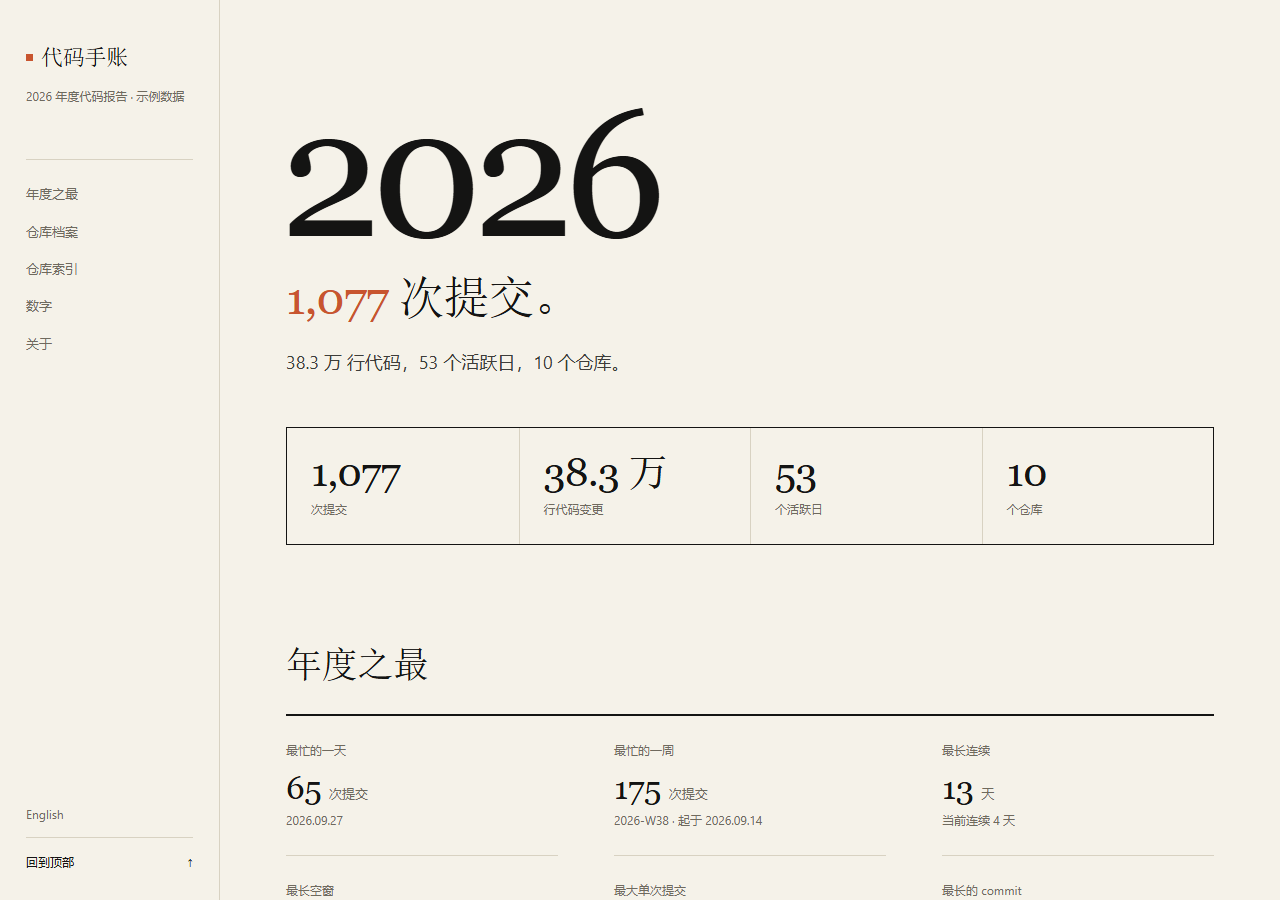
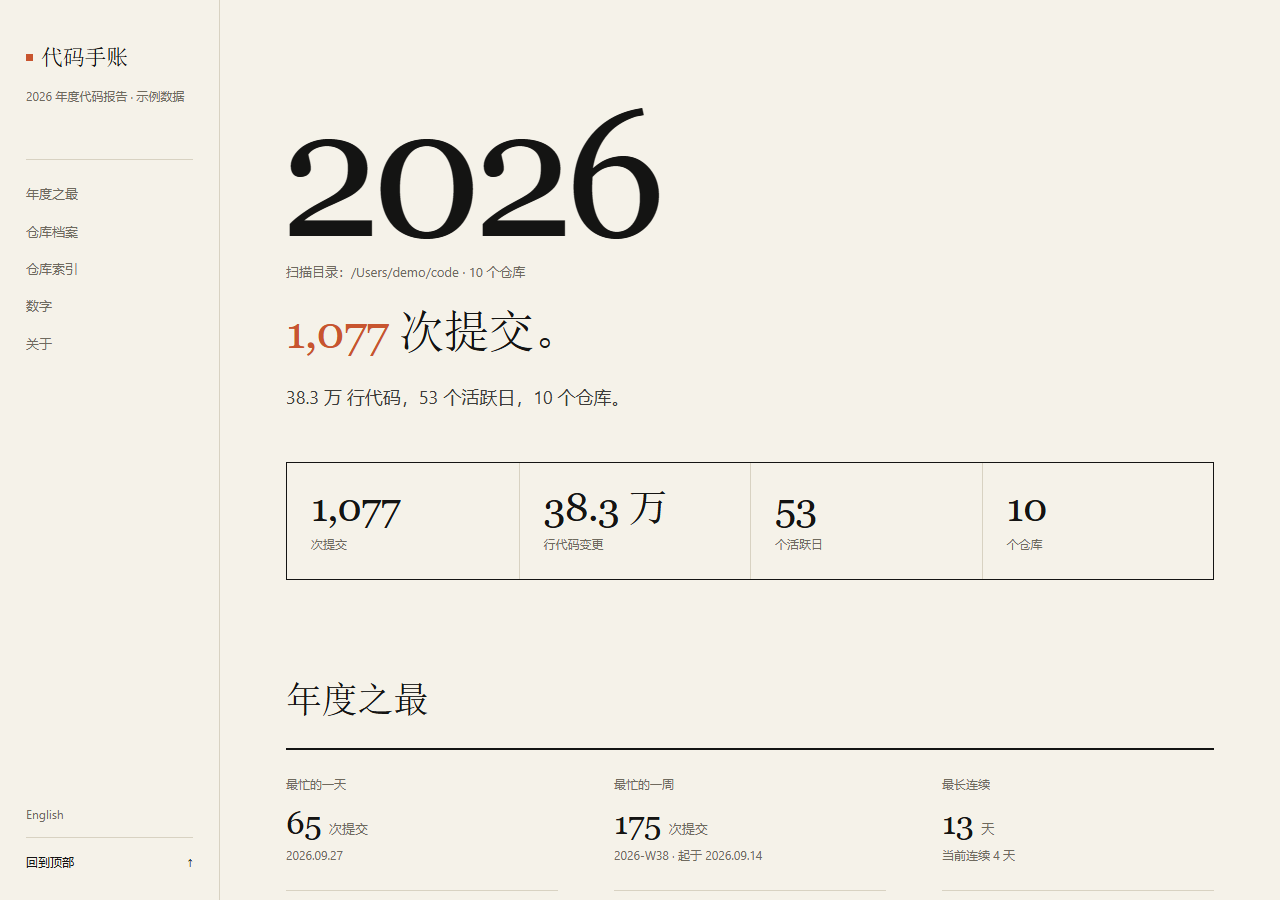
feat: show scan roots, add report motion, quiet the GUI scan

diff --git a/docs/sample-report.html b/docs/sample-report.html
@@ -419,6 +419,8 @@ body{padding-left:220px}
 .cover-kicker{font-size:12px;letter-spacing:.16em;color:var(--acc);margin-bottom:18px}
 .cover-year{font-family:var(--serif);font-size:clamp(120px,15vw,180px);line-height:.82;
   letter-spacing:-.05em;color:var(--ink);margin-left:-6px}
+.scan-roots{margin:14px 0 0;font-family:var(--sans);font-size:13px;
+  color:var(--muted);line-height:1.6;word-break:break-all}
 h1{font-family:var(--serif);font-weight:400;font-size:46px;line-height:1.15;
   letter-spacing:-.02em;color:var(--ink);margin:24px 0 0}
 h1 em{font-style:normal;color:var(--acc)}
@@ -542,9 +544,16 @@ section{padding:88px 0 0;scroll-margin-top:24px}
 footer{border-top:1px solid var(--line);margin-top:88px;padding:24px 0 44px}
 .foot-in{max-width:1040px;padding:0 56px;font-family:var(--sans);font-size:12px}
 
-/* no motion */
-.rv,.rv-line{opacity:1!important;transform:none!important;transition:none!important}
-.sec-line,.bar-track i,.hour-bar,.month-col i{transform:none!important;opacity:1!important}
+/* hero entrance; section reveals and bar growth are handled by the base JS */
+@keyframes cy-rise{from{opacity:0;transform:translateY(12px)}to{opacity:1;transform:none}}
+.cover-year,.scan-roots,.hero h1,.lede,.hero-stats{animation:cy-rise .7s cubic-bezier(.22,1,.36,1) both}
+.scan-roots{animation-delay:.03s}
+.hero h1{animation-delay:.06s}
+.lede{animation-delay:.14s}
+.hero-stats{animation-delay:.2s}
+@media (prefers-reduced-motion: reduce){
+  .cover-year,.scan-roots,.hero h1,.lede,.hero-stats{animation:none}
+}
 #tip{border:1px solid var(--line);box-shadow:none;background:var(--paper);
   font-family:var(--sans);font-size:12px}
 
@@ -597,7 +606,7 @@ footer{border-top:1px solid var(--line);margin-top:88px;padding:24px 0 44px}
     <section class="hero">
       <div>
         <p class="kicker rv">SCAN · /Users/demo/code · 2026</p>
-        <div class="cover-year">2026</div><h1><em>1,077</em> 次提交。</h1>
+        <div class="cover-year">2026</div><p class="scan-roots">扫描目录：/Users/demo/code · 10 个仓库</p><h1><em>1,077</em> 次提交。</h1>
         <p class="lede">38.3 万 行代码，53 个活跃日，10 个仓库。</p>
       </div>
       <div>

diff --git a/docs/sample-report-en.html b/docs/sample-report-en.html
@@ -419,6 +419,8 @@ body{padding-left:220px}
 .cover-kicker{font-size:12px;letter-spacing:.16em;color:var(--acc);margin-bottom:18px}
 .cover-year{font-family:var(--serif);font-size:clamp(120px,15vw,180px);line-height:.82;
   letter-spacing:-.05em;color:var(--ink);margin-left:-6px}
+.scan-roots{margin:14px 0 0;font-family:var(--sans);font-size:13px;
+  color:var(--muted);line-height:1.6;word-break:break-all}
 h1{font-family:var(--serif);font-weight:400;font-size:46px;line-height:1.15;
   letter-spacing:-.02em;color:var(--ink);margin:24px 0 0}
 h1 em{font-style:normal;color:var(--acc)}
@@ -542,9 +544,16 @@ section{padding:88px 0 0;scroll-margin-top:24px}
 footer{border-top:1px solid var(--line);margin-top:88px;padding:24px 0 44px}
 .foot-in{max-width:1040px;padding:0 56px;font-family:var(--sans);font-size:12px}
 
-/* no motion */
-.rv,.rv-line{opacity:1!important;transform:none!important;transition:none!important}
-.sec-line,.bar-track i,.hour-bar,.month-col i{transform:none!important;opacity:1!important}
+/* hero entrance; section reveals and bar growth are handled by the base JS */
+@keyframes cy-rise{from{opacity:0;transform:translateY(12px)}to{opacity:1;transform:none}}
+.cover-year,.scan-roots,.hero h1,.lede,.hero-stats{animation:cy-rise .7s cubic-bezier(.22,1,.36,1) both}
+.scan-roots{animation-delay:.03s}
+.hero h1{animation-delay:.06s}
+.lede{animation-delay:.14s}
+.hero-stats{animation-delay:.2s}
+@media (prefers-reduced-motion: reduce){
+  .cover-year,.scan-roots,.hero h1,.lede,.hero-stats{animation:none}
+}
 #tip{border:1px solid var(--line);box-shadow:none;background:var(--paper);
   font-family:var(--sans);font-size:12px}
 
@@ -597,7 +606,7 @@ footer{border-top:1px solid var(--line);margin-top:88px;padding:24px 0 44px}
     <section class="hero">
       <div>
         <p class="kicker rv">SCAN · /Users/demo/code · 2026</p>
-        <div class="cover-year">2026</div><h1><em>1,077</em> commits.</h1>
+        <div class="cover-year">2026</div><p class="scan-roots">Scan roots: /Users/demo/code · 10 repositories</p><h1><em>1,077</em> commits.</h1>
         <p class="lede">383k lines of code, 53 active days, 10 repositories.</p>
       </div>
       <div>

diff --git a/codeyear/gui.py b/codeyear/gui.py
@@ -51,7 +51,12 @@ class App:
         style.configure(
             "CY.Horizontal.TProgressbar",
             troughcolor=PAPER2, background=ACCENT, bordercolor=LINE,
-            lightcolor=ACCENT, darkcolor=ACCENT,
+            lightcolor=ACCENT, darkcolor=ACCENT, thickness=8,
+        )
+        style.configure(
+            "CY.Vertical.TScrollbar",
+            background=PAPER2, troughcolor=PAPER, bordercolor=LINE,
+            arrowcolor=MUTED, relief="flat",
         )
 
     def _build(self) -> None:
@@ -73,7 +78,8 @@ class App:
 
         # ---- folders -------------------------------------------------
         folder_box = tk.LabelFrame(
-            body, text=" 扫描目录 ", bg=PAPER, fg=INK, bd=1, relief="solid",
+            body, text=" 扫描目录 ", bg=PAPER, fg=INK, bd=0, relief="flat",
+            highlightbackground=LINE, highlightcolor=LINE, highlightthickness=1,
             font=("Microsoft YaHei", 10, "bold"), labelanchor="nw",
         )
         folder_box.pack(fill="x", pady=(6, 12))
@@ -84,11 +90,13 @@ class App:
             list_wrap, height=5, selectmode=tk.EXTENDED, exportselection=False,
             bg="white", fg=INK, relief="flat", highlightthickness=1,
             highlightbackground=LINE, highlightcolor=LINE,
+            selectbackground=ACCENT, selectforeground="white",
             font=("Consolas", 10),
         )
         self.folder_list.pack(side="left", fill="x", expand=True)
-        scroll = ttk.Scrollbar(list_wrap, orient="vertical",
-                               command=self.folder_list.yview)
+        scroll = ttk.Scrollbar(
+            list_wrap, orient="vertical", style="CY.Vertical.TScrollbar",
+            command=self.folder_list.yview)
         scroll.pack(side="right", fill="y")
         self.folder_list.configure(yscrollcommand=scroll.set)
 
@@ -116,8 +124,9 @@ class App:
         self.year_var = tk.StringVar(value=str(date.today().year))
         tk.Spinbox(
             options, from_=2000, to=2100, width=8, textvariable=self.year_var,
-            relief="flat", highlightthickness=1, highlightbackground=LINE,
-            bg="white", fg=INK, font=("Consolas", 10),
+            relief="flat", bd=0, highlightthickness=1, highlightbackground=LINE,
+            bg="white", fg=INK, buttonbackground=PAPER2,
+            font=("Consolas", 10),
         ).grid(row=1, column=0, sticky="w", pady=(2, 0))
 
         tk.Label(options, text="扫描层级", bg=PAPER, fg=MUTED,
@@ -126,8 +135,9 @@ class App:
         self.depth_var = tk.StringVar(value="6")
         tk.Spinbox(
             options, from_=1, to=20, width=6, textvariable=self.depth_var,
-            relief="flat", highlightthickness=1, highlightbackground=LINE,
-            bg="white", fg=INK, font=("Consolas", 10),
+            relief="flat", bd=0, highlightthickness=1, highlightbackground=LINE,
+            bg="white", fg=INK, buttonbackground=PAPER2,
+            font=("Consolas", 10),
         ).grid(row=1, column=1, sticky="w", padx=(22, 0), pady=(2, 0))
 
         if self.identity:
@@ -198,7 +208,8 @@ class App:
 
         # ---- result --------------------------------------------------
         result_box = tk.LabelFrame(
-            body, text=" 结果 ", bg=PAPER, fg=INK, bd=1, relief="solid",
+            body, text=" 结果 ", bg=PAPER, fg=INK, bd=0, relief="flat",
+            highlightbackground=LINE, highlightcolor=LINE, highlightthickness=1,
             font=("Microsoft YaHei", 10, "bold"), labelanchor="nw",
         )
         result_box.pack(fill="both", expand=True, pady=(12, 0))
@@ -207,11 +218,13 @@ class App:
         self.result = tk.Text(
             text_wrap, height=8, wrap="word", bg="white", fg=INK,
             relief="flat", highlightthickness=1, highlightbackground=LINE,
+            selectbackground=ACCENT, selectforeground="white",
             font=("Consolas", 9),
         )
         self.result.pack(side="left", fill="both", expand=True)
-        rscroll = ttk.Scrollbar(text_wrap, orient="vertical",
-                                command=self.result.yview)
+        rscroll = ttk.Scrollbar(
+            text_wrap, orient="vertical", style="CY.Vertical.TScrollbar",
+            command=self.result.yview)
         rscroll.pack(side="right", fill="y")
         self.result.configure(yscrollcommand=rscroll.set, state="disabled")
 
@@ -219,7 +232,7 @@ class App:
         return tk.Button(
             parent, text=text, command=command, bg=PAPER2, fg=INK,
             activebackground="#ddd7c8", activeforeground=INK,
-            relief="flat", bd=0, padx=12, pady=6,
+            relief="flat", bd=0, padx=12, pady=6, cursor="hand2",
             font=("Microsoft YaHei", 9),
         )
 

diff --git a/codeyear/report_theme.py b/codeyear/report_theme.py
@@ -71,6 +71,8 @@ body{padding-left:220px}
 .cover-kicker{font-size:12px;letter-spacing:.16em;color:var(--acc);margin-bottom:18px}
 .cover-year{font-family:var(--serif);font-size:clamp(120px,15vw,180px);line-height:.82;
   letter-spacing:-.05em;color:var(--ink);margin-left:-6px}
+.scan-roots{margin:14px 0 0;font-family:var(--sans);font-size:13px;
+  color:var(--muted);line-height:1.6;word-break:break-all}
 h1{font-family:var(--serif);font-weight:400;font-size:46px;line-height:1.15;
   letter-spacing:-.02em;color:var(--ink);margin:24px 0 0}
 h1 em{font-style:normal;color:var(--acc)}
@@ -194,9 +196,16 @@ section{padding:88px 0 0;scroll-margin-top:24px}
 footer{border-top:1px solid var(--line);margin-top:88px;padding:24px 0 44px}
 .foot-in{max-width:1040px;padding:0 56px;font-family:var(--sans);font-size:12px}
 
-/* no motion */
-.rv,.rv-line{opacity:1!important;transform:none!important;transition:none!important}
-.sec-line,.bar-track i,.hour-bar,.month-col i{transform:none!important;opacity:1!important}
+/* hero entrance; section reveals and bar growth are handled by the base JS */
+@keyframes cy-rise{from{opacity:0;transform:translateY(12px)}to{opacity:1;transform:none}}
+.cover-year,.scan-roots,.hero h1,.lede,.hero-stats{animation:cy-rise .7s cubic-bezier(.22,1,.36,1) both}
+.scan-roots{animation-delay:.03s}
+.hero h1{animation-delay:.06s}
+.lede{animation-delay:.14s}
+.hero-stats{animation-delay:.2s}
+@media (prefers-reduced-motion: reduce){
+  .cover-year,.scan-roots,.hero h1,.lede,.hero-stats{animation:none}
+}
 #tip{border:1px solid var(--line);box-shadow:none;background:var(--paper);
   font-family:var(--sans);font-size:12px}
 
@@ -356,6 +365,7 @@ EN_MAP = {
 }
 
 EN_PATTERNS = [
+    (r"扫描目录：(.*) · (\d+) 个仓库", r"Scan roots: \1 · \2 repositories"),
     (r"38\.2\s*万\s*行代码，53 个活跃日，10 个仓库。",
      r"382k lines of code, 53 active days, 10 repositories."),
     (r"(\d[\d,]*) 次提交", r"\1 commits"),
@@ -512,10 +522,15 @@ def decorate(source: str, stats: ReportStats) -> str:
     repos = stats.repo_count
     html = source
 
+    cover = (
+        f'<div class="cover-year">{year}</div>'
+        f'<p class="scan-roots">扫描目录：{htmlmod.escape(stats.root)}'
+        f' · {repos} 个仓库</p>'
+        f'<h1><em>{_comma(commits)}</em> 次提交。</h1>'
+    )
     html = re.sub(
         r'<h1 class="rv-line">.*?</h1>',
-        f'<div class="cover-year">{year}</div>'
-        f'<h1><em>{_comma(commits)}</em> 次提交。</h1>',
+        lambda _match: cover,
         html, count=1, flags=re.S,
     )
     html = re.sub(

diff --git a/codeyear/scanner.py b/codeyear/scanner.py
@@ -28,6 +28,7 @@ SKIP_DIRS: set[str] = {
 # A single repo with an enormous history can make one ``git log`` very slow.
 # This caps output per repo; it is far above a normal personal year.
 MAX_COMMITS_PER_REPO = 50_000
+_NO_WINDOW = subprocess.CREATE_NO_WINDOW if os.name == "nt" else 0
 
 
 @dataclass
@@ -175,7 +176,8 @@ def _git_remote(repo_path: Path) -> str | None:
         proc = subprocess.run(
             ["git", "-c", f"safe.directory={repo_path.as_posix()}",
              "-C", str(repo_path), "remote", "get-url", "origin"],
-            capture_output=True, text=True, encoding="utf-8",
+            capture_output=True, creationflags=_NO_WINDOW,
+            text=True, encoding="utf-8",
             errors="replace", timeout=10,
         )
     except (OSError, subprocess.TimeoutExpired):
@@ -190,7 +192,8 @@ def _git_root(repo_path: Path) -> str | None:
         proc = subprocess.run(
             ["git", "-c", f"safe.directory={repo_path.as_posix()}",
              "-C", str(repo_path), "rev-list", "--max-parents=0", "HEAD"],
-            capture_output=True, text=True, encoding="utf-8",
+            capture_output=True, creationflags=_NO_WINDOW,
+            text=True, encoding="utf-8",
             errors="replace", timeout=10,
         )
     except (OSError, subprocess.TimeoutExpired):
@@ -205,7 +208,8 @@ def _git_text(repo_path: Path, args: list[str], timeout: int = 30) -> str:
         proc = subprocess.run(
             ["git", "-c", f"safe.directory={repo_path.as_posix()}",
              "-C", str(repo_path), *args],
-            capture_output=True, text=True, encoding="utf-8",
+            capture_output=True, creationflags=_NO_WINDOW,
+            text=True, encoding="utf-8",
             errors="replace", timeout=timeout,
         )
     except (OSError, subprocess.TimeoutExpired):
@@ -257,6 +261,7 @@ def scan_repo(
             proc = subprocess.run(
                 cmd,
                 capture_output=True,
+                creationflags=_NO_WINDOW,
                 text=True,
                 encoding="utf-8",
                 errors="replace",

diff --git a/codeyear/runner.py b/codeyear/runner.py
@@ -3,6 +3,7 @@
 from __future__ import annotations
 
 import json
+import os
 import subprocess
 from dataclasses import dataclass, field
 from pathlib import Path
@@ -16,6 +17,7 @@ from .stats import ReportStats, build_stats
 
 Progress = Callable[[int, int, str], None]
 ALL_FORMATS = {"json", "html", "png", "long", "card"}
+_NO_WINDOW = subprocess.CREATE_NO_WINDOW if os.name == "nt" else 0
 
 
 def detect_identity() -> tuple[str, str] | None:
@@ -24,7 +26,7 @@ def detect_identity() -> tuple[str, str] | None:
             proc = subprocess.run(
                 ["git", "config", "--global", key],
                 capture_output=True, text=True, encoding="utf-8",
-                errors="replace", timeout=10,
+                errors="replace", timeout=10, creationflags=_NO_WINDOW,
             )
         except (OSError, subprocess.TimeoutExpired):
             return ""

diff --git a/codeyear/cli.py b/codeyear/cli.py
@@ -18,6 +18,8 @@ from .poster import render as render_poster, render_long
 from .scanner import find_repos, scan_repo
 from .stats import build_stats, fmt_int
 
+_NO_WINDOW = subprocess.CREATE_NO_WINDOW if os.name == "nt" else 0
+
 
 def _build_parser() -> argparse.ArgumentParser:
     parser = argparse.ArgumentParser(
@@ -71,7 +73,7 @@ def _detect_identity() -> tuple[str, str] | None:
             proc = subprocess.run(
                 ["git", "config", "--global", key],
                 capture_output=True, text=True, encoding="utf-8",
-                errors="replace", timeout=10,
+                errors="replace", timeout=10, creationflags=_NO_WINDOW,
             )
         except (OSError, subprocess.TimeoutExpired):
             return ""

diff --git a/codeyear/profile.py b/codeyear/profile.py
@@ -7,10 +7,13 @@ on this machine.
 
 from __future__ import annotations
 
+import os
 import re
 import shutil
 import subprocess
 from pathlib import Path
+
+_NO_WINDOW = subprocess.CREATE_NO_WINDOW if os.name == "nt" else 0
 
 
 def _git(repo: Path, *args: str) -> subprocess.CompletedProcess:
@@ -21,6 +24,7 @@ def _git(repo: Path, *args: str) -> subprocess.CompletedProcess:
         encoding="utf-8",
         errors="replace",
         check=False,
+        creationflags=_NO_WINDOW,
     )
 
 

diff --git a/README.en.md b/README.en.md
@@ -83,8 +83,10 @@ By default it counts only commits authored by you (matching git `user.name` / `u
 
 **Design**
 - Paper archive: warm paper, ink, vermilion accent, large serif headings + monospaced data, square corners, hairlines
-- Layout: a book-spine contents rail, an oversized year cover, a light four-cell stats table,
-  a "Next" link at the end of every section, scroll-spy navigation, and a back-to-top button
+- Layout: a book-spine contents rail, an oversized year cover (showing the scanned folders),
+  a light four-cell stats table, a "Next" link at the end of every section, scroll-spy navigation,
+  and a back-to-top button
+- Motion: a subtle cover entrance, section reveals, and bar growth; respects `prefers-reduced-motion`
 - Bilingual: generates both Chinese and English reports from the same data, switchable in-page
 - Vanilla JS only; respects `prefers-reduced-motion`
 - System fonts only (Georgia / Songti / SimSun + Consolas); no external font requests
